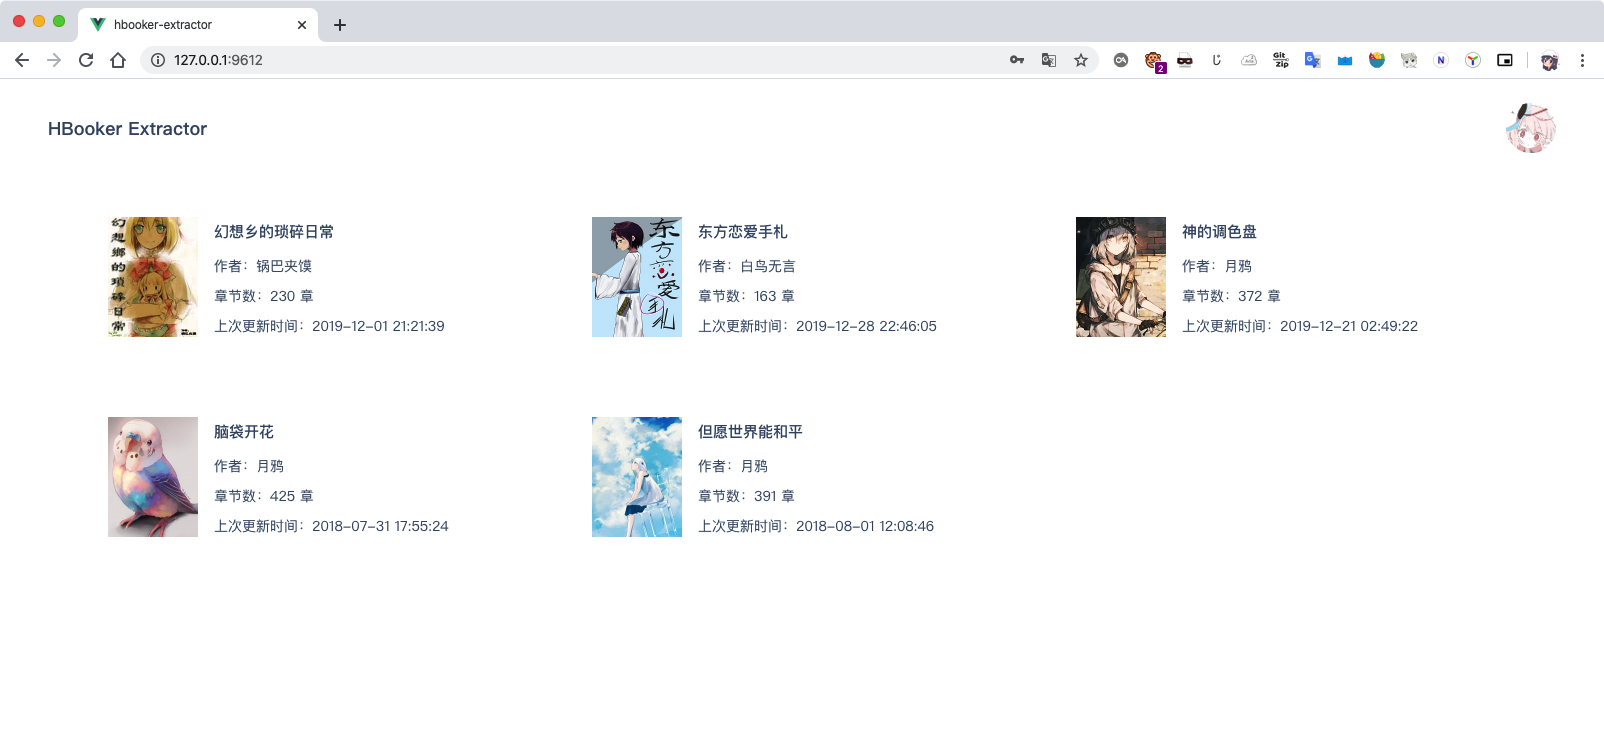
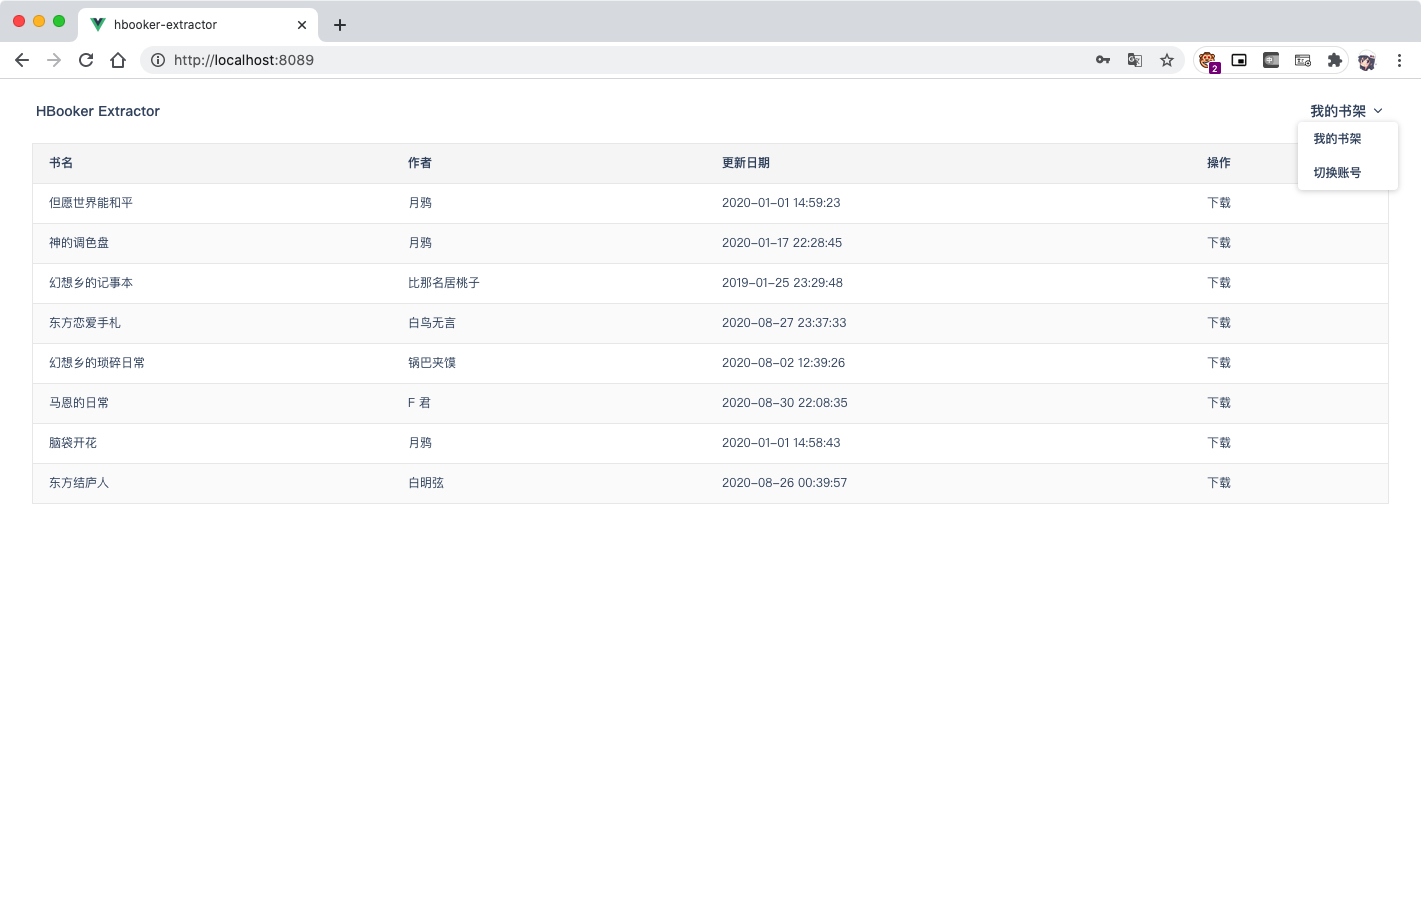
update readme

diff --git a/README.md b/README.md
@@ -2,9 +2,19 @@
 
 使用 vue 和 at-ui 编写的 刺猬猫 小说提取工具。
 
+## 更新日志
+
+2020.8.30
+
+- 使用列表视图展示书架，避免额外请求
+- 修正只能获取书架前一百本书籍的问题
+- 支持切换书架
+- 其它 UI 更新
+
 ## 程序部署
 
 ```
+//开发环境为 node v12.18.3
 //拉取依赖
 yarn install
 //开发调试
